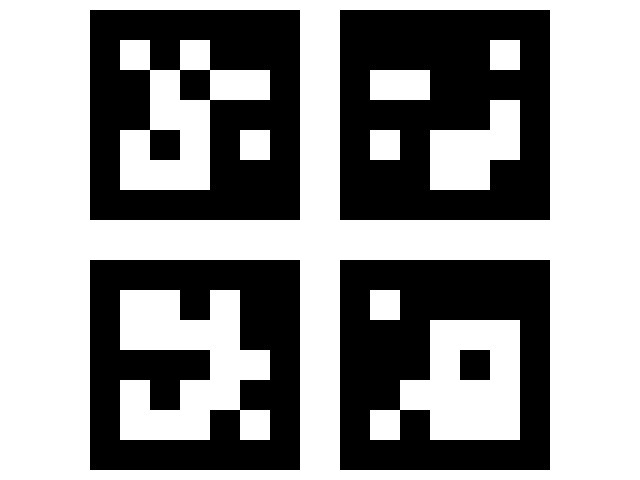
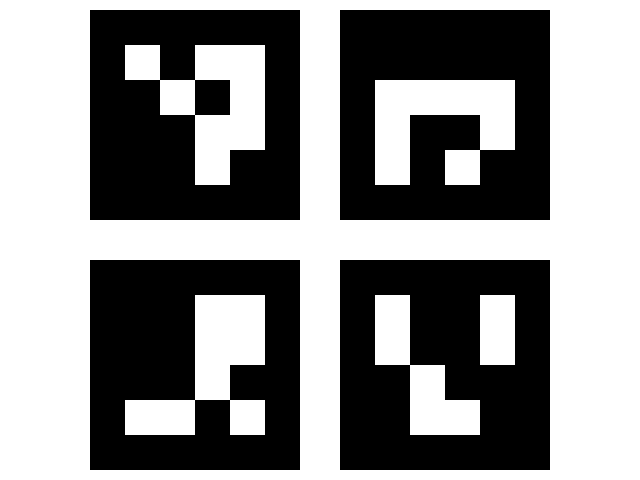
edited the creating of the aruco_markers

diff --git a/ml_detector/src/ml_rotate_image.py b/ml_detector/src/ml_rotate_image.py
@@ -8,10 +8,17 @@ full_path = "/home/nils/jackal_ws/src/dynamic_object_jackal_slam/marker_localiza
 # str(Path(full_path).parents[1])  # "path"
 # str(Path(full_path).parents[2]) 
 
-image = Image.open(str(Path(full_path).parents[0]) + "/img/board_0.png")
-
+image = Image.open(str(Path(full_path).parents[0]) + "/img/board_4.png")
+image.save(str(Path(full_path).parents[2]) + "/multi_jackal_simulator/multi_jackal_description/meshes/apriltags/images/board_4.png")
 rotated_image = image.rotate(180)
+rotated_image.save(str(Path(full_path).parents[2]) + "/multi_jackal_simulator/multi_jackal_description/meshes/apriltags/images/board_4_rotated.png")
 
-rotated_image.save(str(Path(full_path).parents[2]) + "/multi_jackal_simulator/multi_jackal_description/meshes/apriltags/images/apriltags-003.png")
-rotated_image.save(str(Path(full_path).parents[2]) + "/multi_jackal_simulator/multi_jackal_description/meshes/apriltags/images/apriltags-004.png")
-rotated_image.save(str(Path(full_path).parents[2]) + "/multi_jackal_simulator/multi_jackal_description/meshes/apriltags/images/apriltags-005.png")
+image = Image.open(str(Path(full_path).parents[0]) + "/img/board_0.png")
+image.save(str(Path(full_path).parents[2]) + "/gazebo_models/AruCo_Block_0/materials/textures/board_0.png")
+image = Image.open(str(Path(full_path).parents[0]) + "/img/board_1.png")
+image.save(str(Path(full_path).parents[2]) + "/gazebo_models/AruCo_Block_1/materials/textures/board_1.png")
+image = Image.open(str(Path(full_path).parents[0]) + "/img/board_2.png")
+image.save(str(Path(full_path).parents[2]) + "/gazebo_models/AruCo_Block_2/materials/textures/board_2.png")
+image = Image.open(str(Path(full_path).parents[0]) + "/img/board_3.png")
+image.save(str(Path(full_path).parents[2]) + "/gazebo_models/AruCo_Block_3/materials/textures/board_3.png")
+
